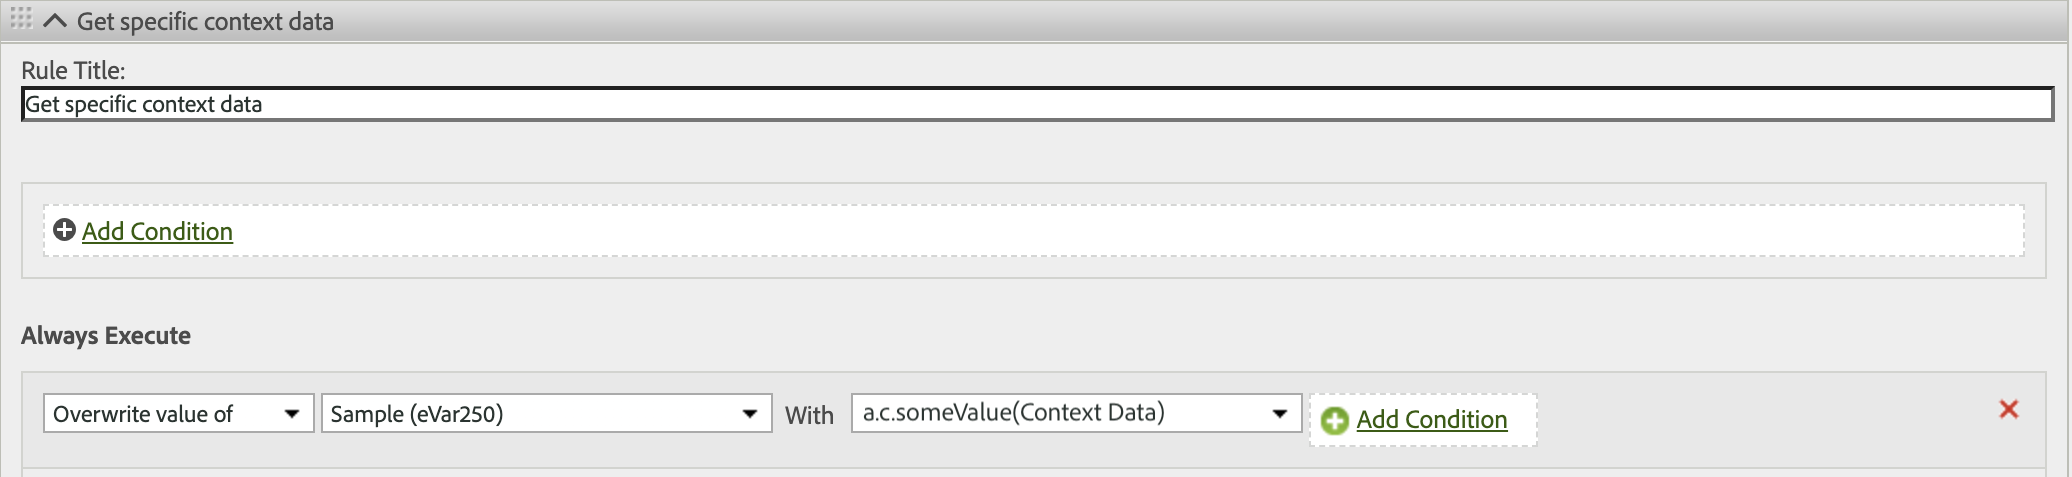
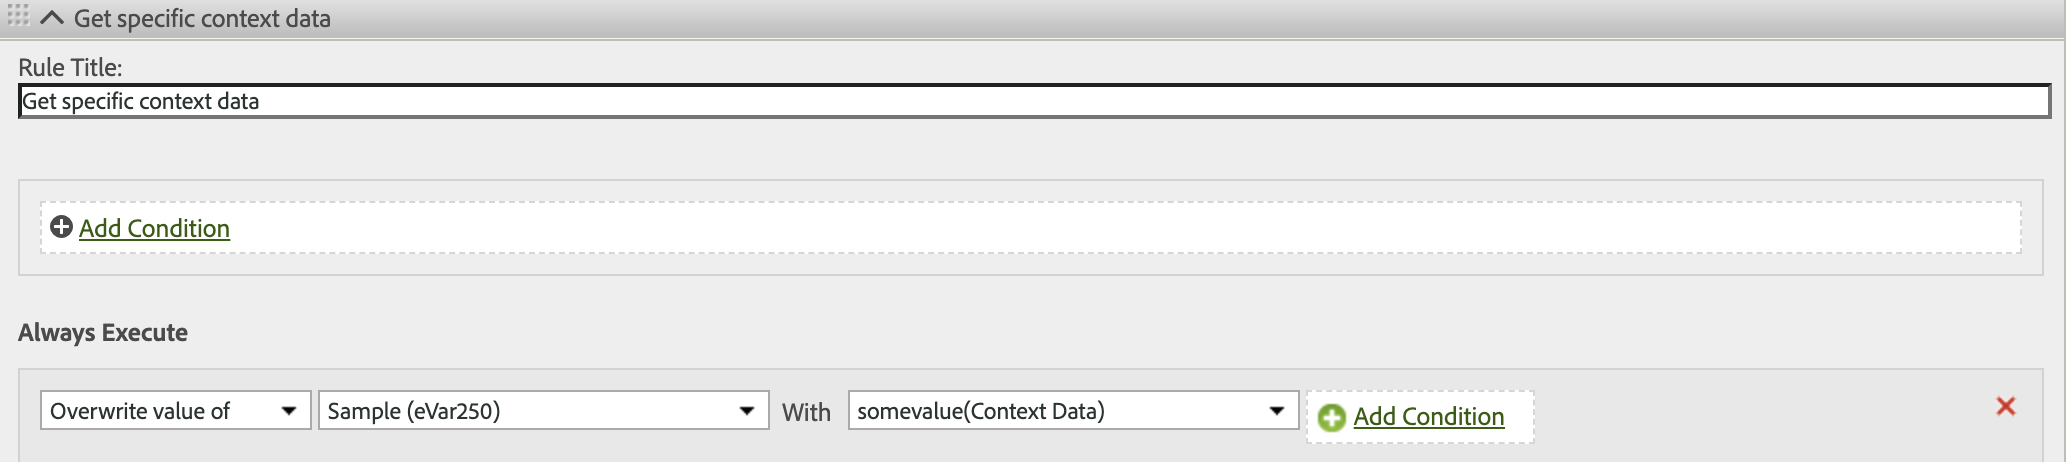
More updates

Changed region(s): [[0.0, 0.0, 1.0, 1.0], [0.0, 0.6667, 0.0929, 0.7576], [0.0, 0.9697, 0.031, 1.0]]

diff --git a/help/implement/aep-edge/xdm-var-mapping.md b/help/implement/aep-edge/xdm-var-mapping.md
@@ -161,7 +161,7 @@ The Web SDK sends that data to Adobe Analytics as the context data variable `a.x
 
 ## Explicit mapping
 
-You can also explicitly map XDM field elements as context data. Any XDM field element that is explicitly mapped is sent to Adobe Analytics as Context Data with the prefix `a.c.` You can then map this context data variable to the desired Analytics variable using [Processing rules](https://experienceleague.adobe.com/docs/analytics/admin/admin-tools/processing-rules/processing-rules.html). For example, if you send the following event:
+You can also explicitly map XDM field elements as context data. Any XDM field element that is explicitly mapped, using the `contextData` element, is sent to Adobe Analytics as Context Data without a prefix. You can then map this context data variable to the desired Analytics variable using [Processing rules](https://experienceleague.adobe.com/docs/analytics/admin/admin-tools/processing-rules/processing-rules.html). For example, if you send the following event:
 
 ```js
 alloy("event",{
@@ -177,6 +177,6 @@ alloy("event",{
 })
 ```
 
-The Web SDK sends that data to Adobe Analytics as the context data variable `a.c.somevalue` with value `1`.  You can then use a processing rule to assign that context data variable value to the desired Analytics variable, such as an `eVar`:
+The Web SDK sends that data to Adobe Analytics as the context data variable `somevalue` with value `1`.  You can then use a processing rule to assign that context data variable value to the desired Analytics variable, such as an `eVar`:
 
  ![Search term processing rule](assets/examplerule-explicit.png)
